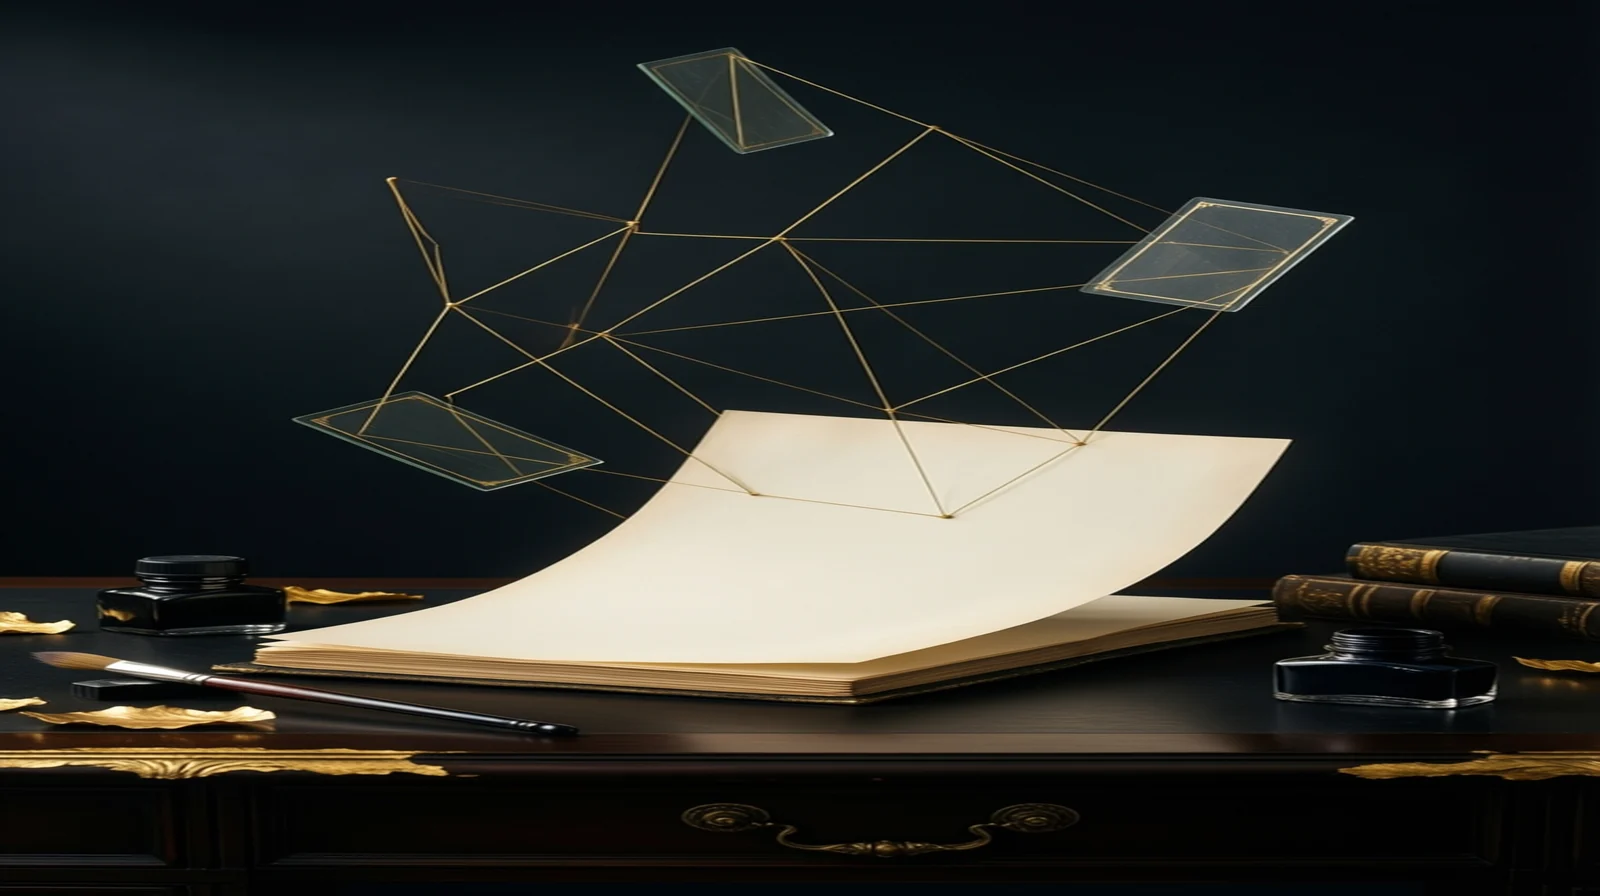
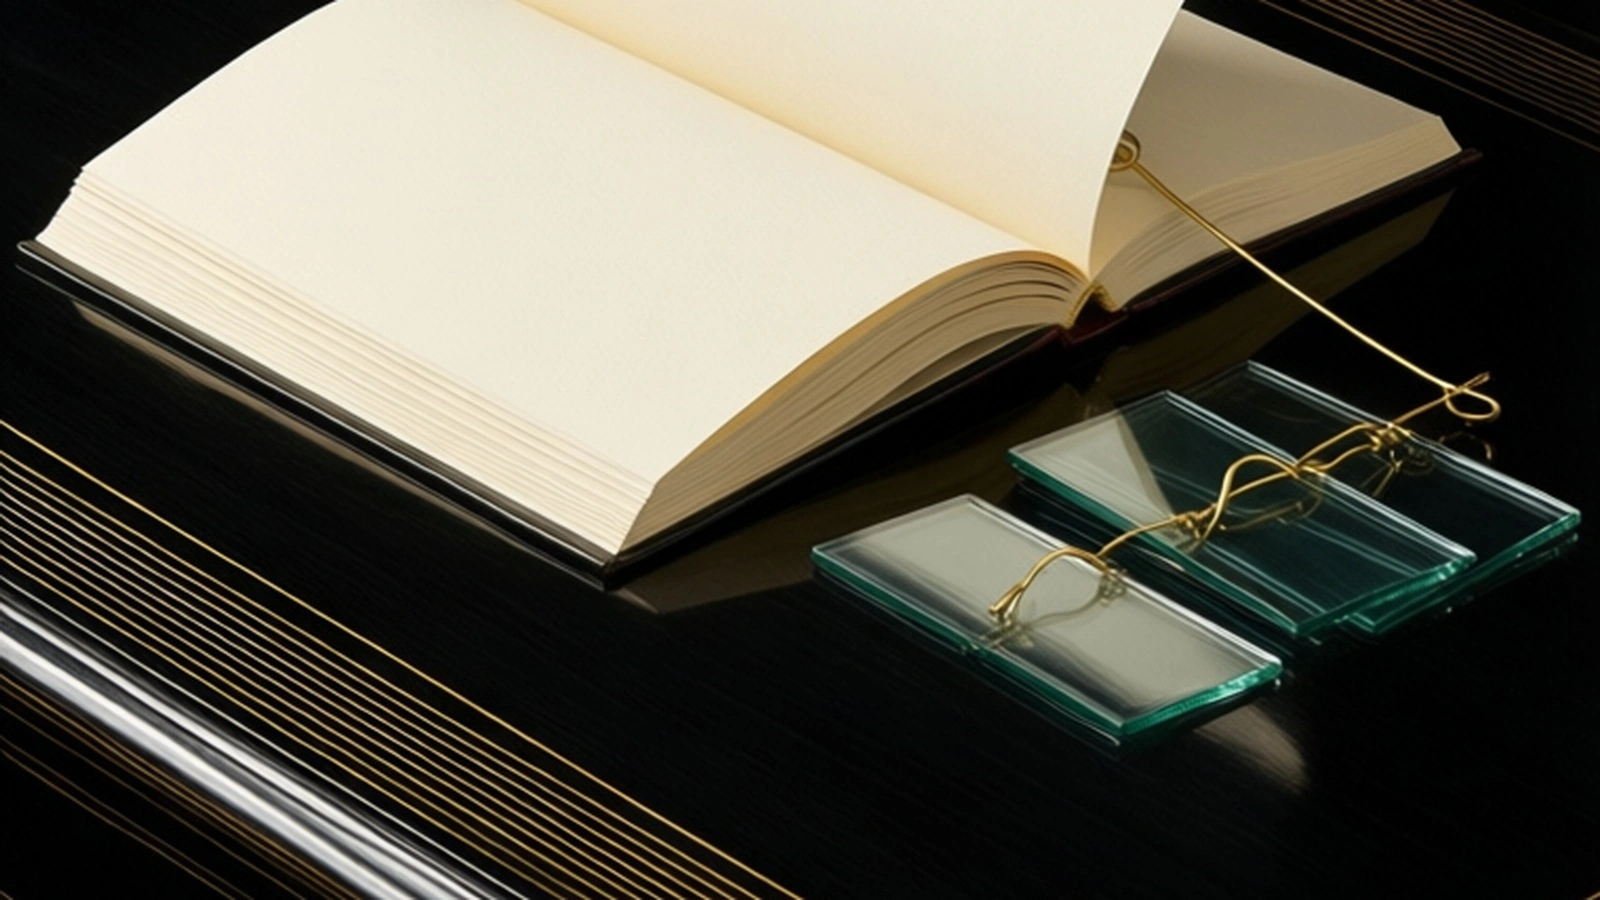
Rename the public repo path and fix the theme toggle.
Keep dark mode on the in-app switch, and replace the stretched cover with a sharper wide crop.

diff --git a/frontend/src/App.tsx b/frontend/src/App.tsx
@@ -46,9 +46,24 @@ export default function App() {
   // App Layout States
   const [activeTab, setActiveTab] = useState<string>('dashboard');
   const [workbenchSubTab, setWorkbenchSubTab] = useState<string>('confirm');
-  const [isDarkMode, setIsDarkMode] = useState<boolean>(false);
+  const [isDarkMode, setIsDarkMode] = useState<boolean>(() => {
+    try {
+      return localStorage.getItem('aimagician-theme') === 'dark';
+    } catch {
+      return false;
+    }
+  });
   const [accentColor, setAccentColor] = useState<'blue' | 'green' | 'brown'>('blue');
   const [isReviewOpen, setIsReviewOpen] = useState<boolean>(false);
+
+  useEffect(() => {
+    document.documentElement.classList.toggle('dark', isDarkMode);
+    try {
+      localStorage.setItem('aimagician-theme', isDarkMode ? 'dark' : 'light');
+    } catch {
+      /* private mode */
+    }
+  }, [isDarkMode]);
 
   // Check session on mount
   useEffect(() => {

diff --git a/frontend/src/index.css b/frontend/src/index.css
@@ -1,9 +1,22 @@
 @import url('https://fonts.googleapis.com/css2?family=Inter:wght@400;500;600;700&family=JetBrains+Mono:wght@400;500;700&display=swap');
 @import "tailwindcss";
 
+/* Follow the in-app toggle, not the operating system theme. */
+@custom-variant dark (&:where(.dark, .dark *));
+
 @theme {
   --font-sans: "Inter", ui-sans-serif, system-ui, sans-serif;
   --font-mono: "JetBrains Mono", ui-monospace, SFMono-Regular, monospace;
+}
+
+html {
+  background-color: #fafdff;
+  color-scheme: light;
+}
+
+html.dark {
+  background-color: #090d16;
+  color-scheme: dark;
 }
 
 body {

diff --git a/frontend/index.html b/frontend/index.html
@@ -4,6 +4,13 @@
     <meta charset="UTF-8" />
     <meta name="viewport" content="width=device-width, initial-scale=1.0" />
     <title>AImagician - AI 技术自媒体全流程操作系统</title>
+    <script>
+      try {
+        if (localStorage.getItem('aimagician-theme') === 'dark') {
+          document.documentElement.classList.add('dark');
+        }
+      } catch (e) {}
+    </script>
   </head>
   <body>
     <div id="root"></div>

diff --git a/README.md b/README.md
@@ -18,7 +18,7 @@
 </p>
 
 <p align="center">
-  <a href="https://tobemagic.github.io/aimagician/">在线演示</a> ·
+  <a href="https://tobemagic.github.io/computer-magician/">在线演示</a> ·
   <a href="#quick-start">快速开始</a> ·
   <a href="#capabilities">能力</a> ·
   <a href="#mcp">接入 MCP</a> ·
@@ -87,7 +87,7 @@ npm run dev
 curl -s http://127.0.0.1:8765/api/health
 ```
 
-静态演示（不连数据库，只能点界面）在 GitHub Pages：<https://tobemagic.github.io/aimagician/>。文章、MCP 和发布要按上面的命令在自己的机器上跑。
+静态演示（不连数据库，只能点界面）在 GitHub Pages：<https://tobemagic.github.io/computer-magician/>。文章、MCP 和发布要按上面的命令在自己的机器上跑。
 
 <a id="capabilities"></a>
 ## 能力
